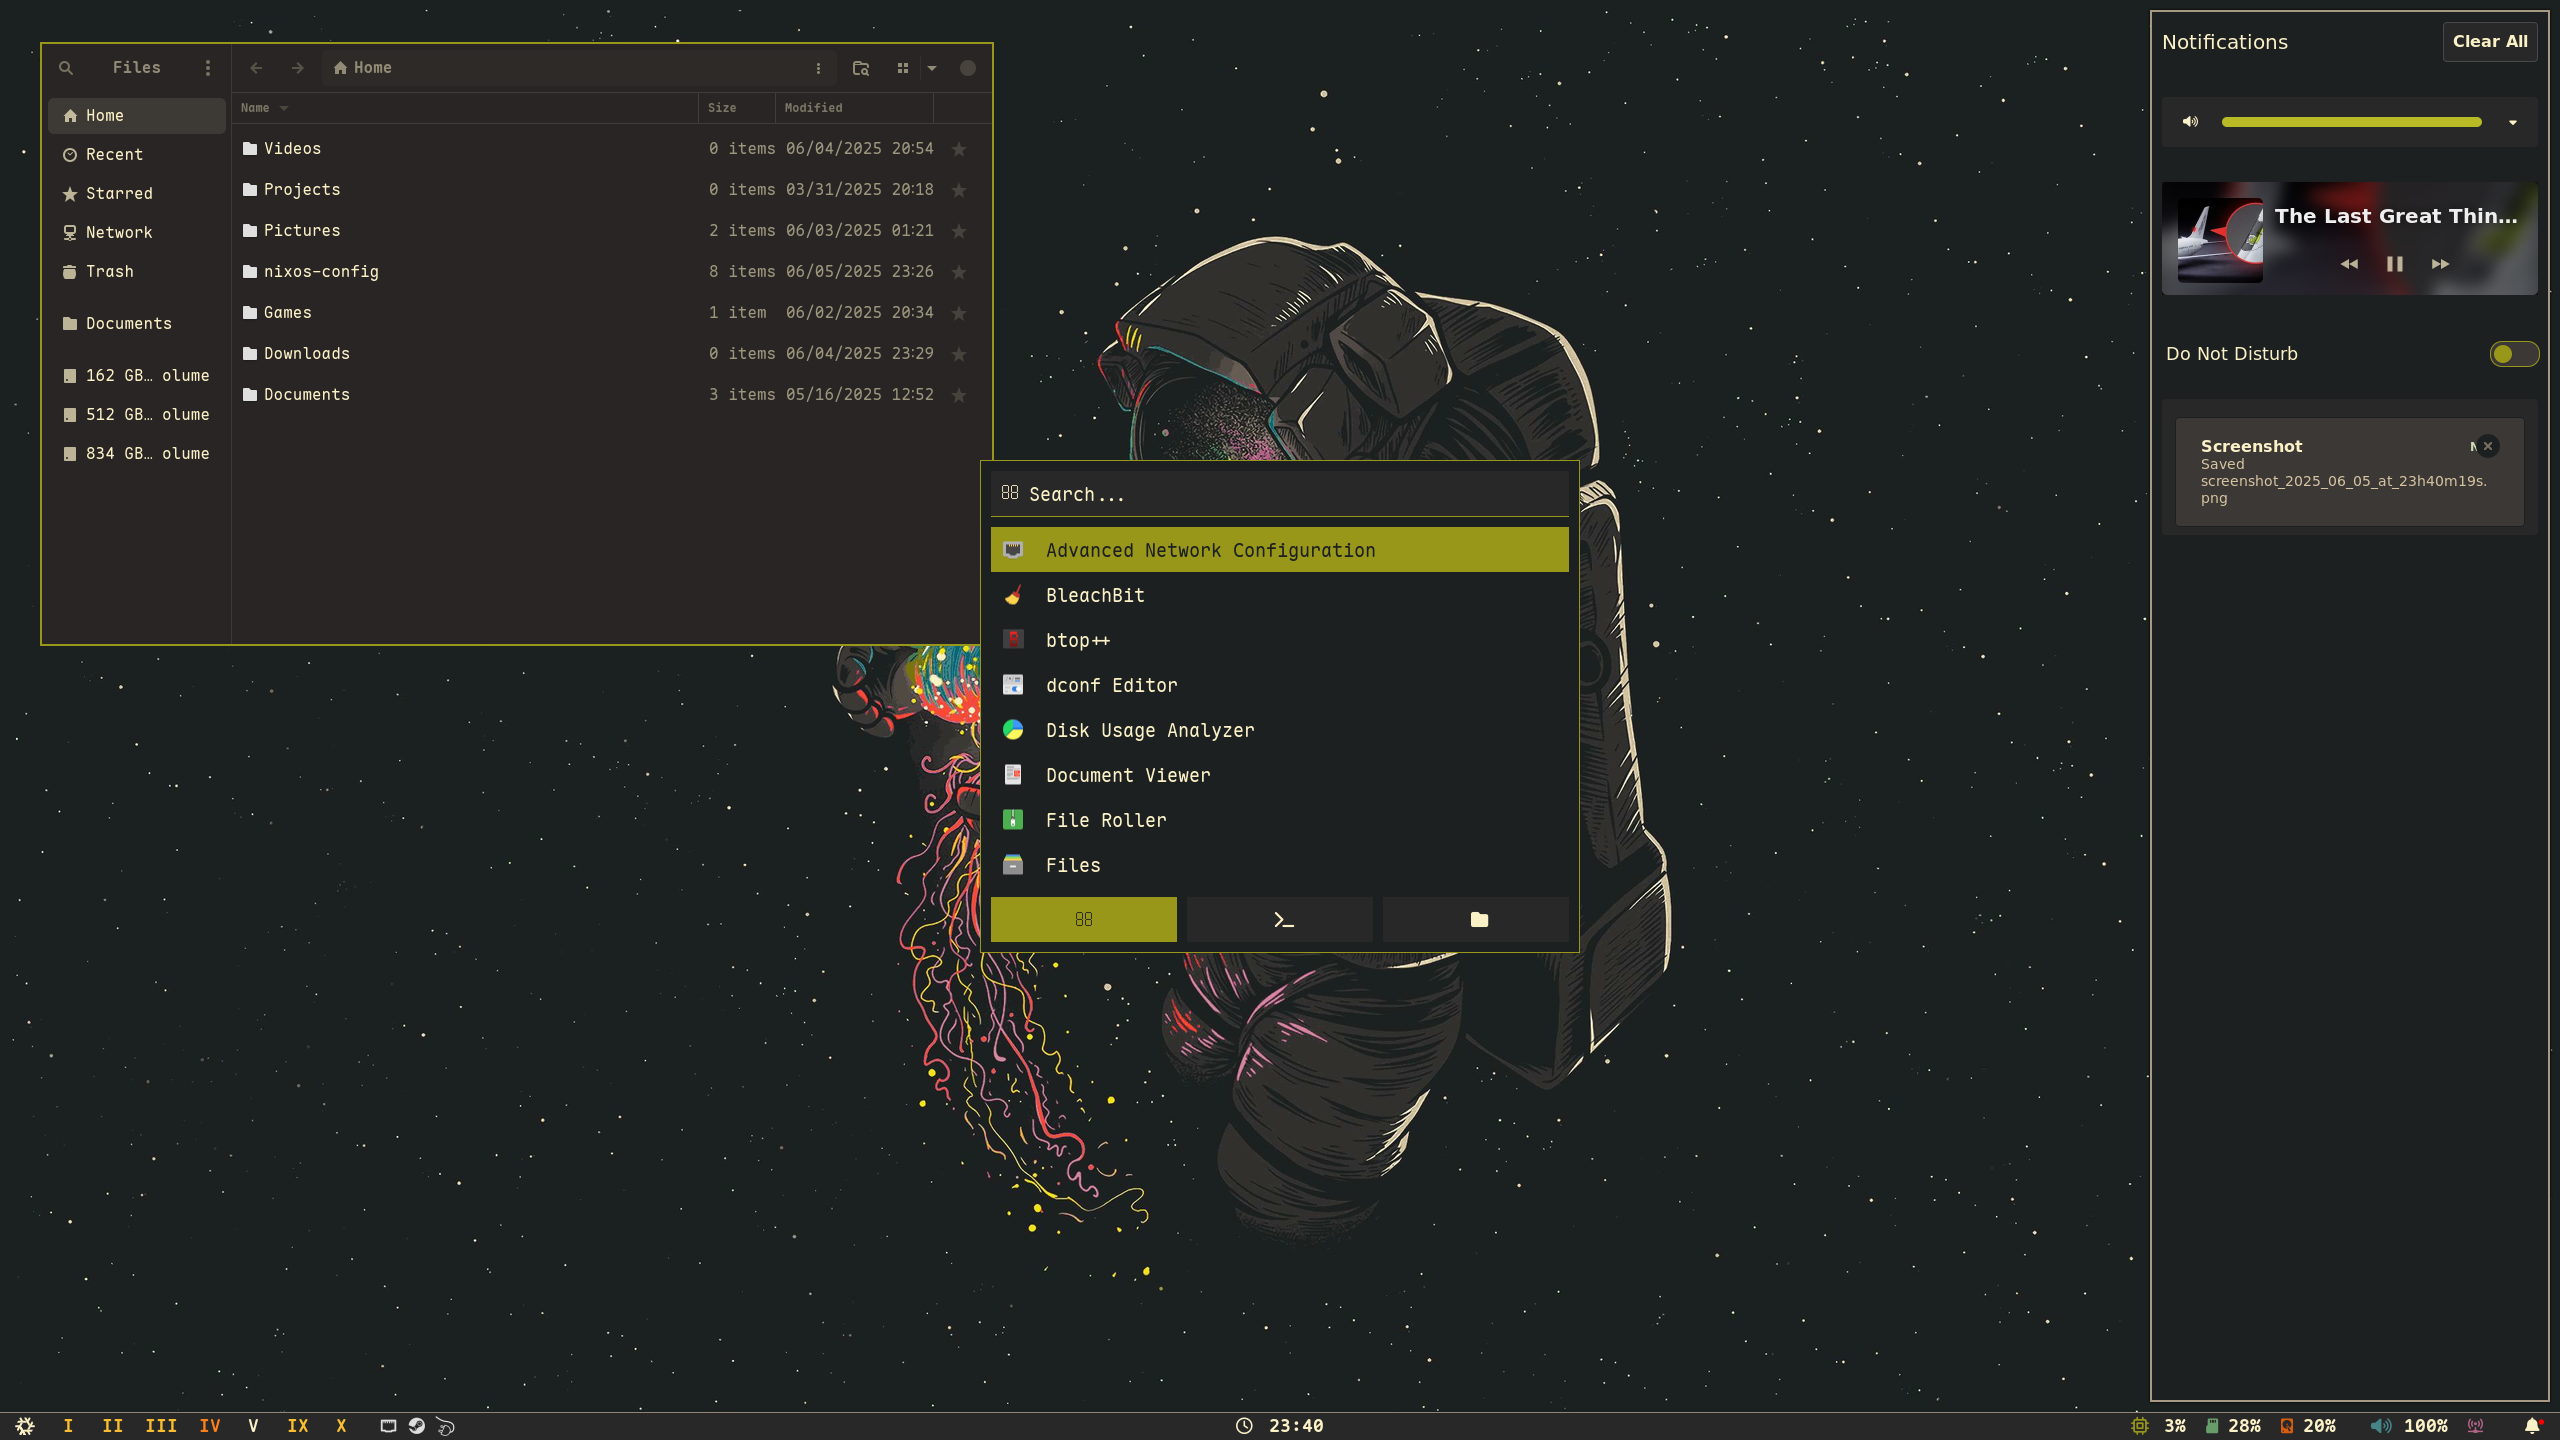
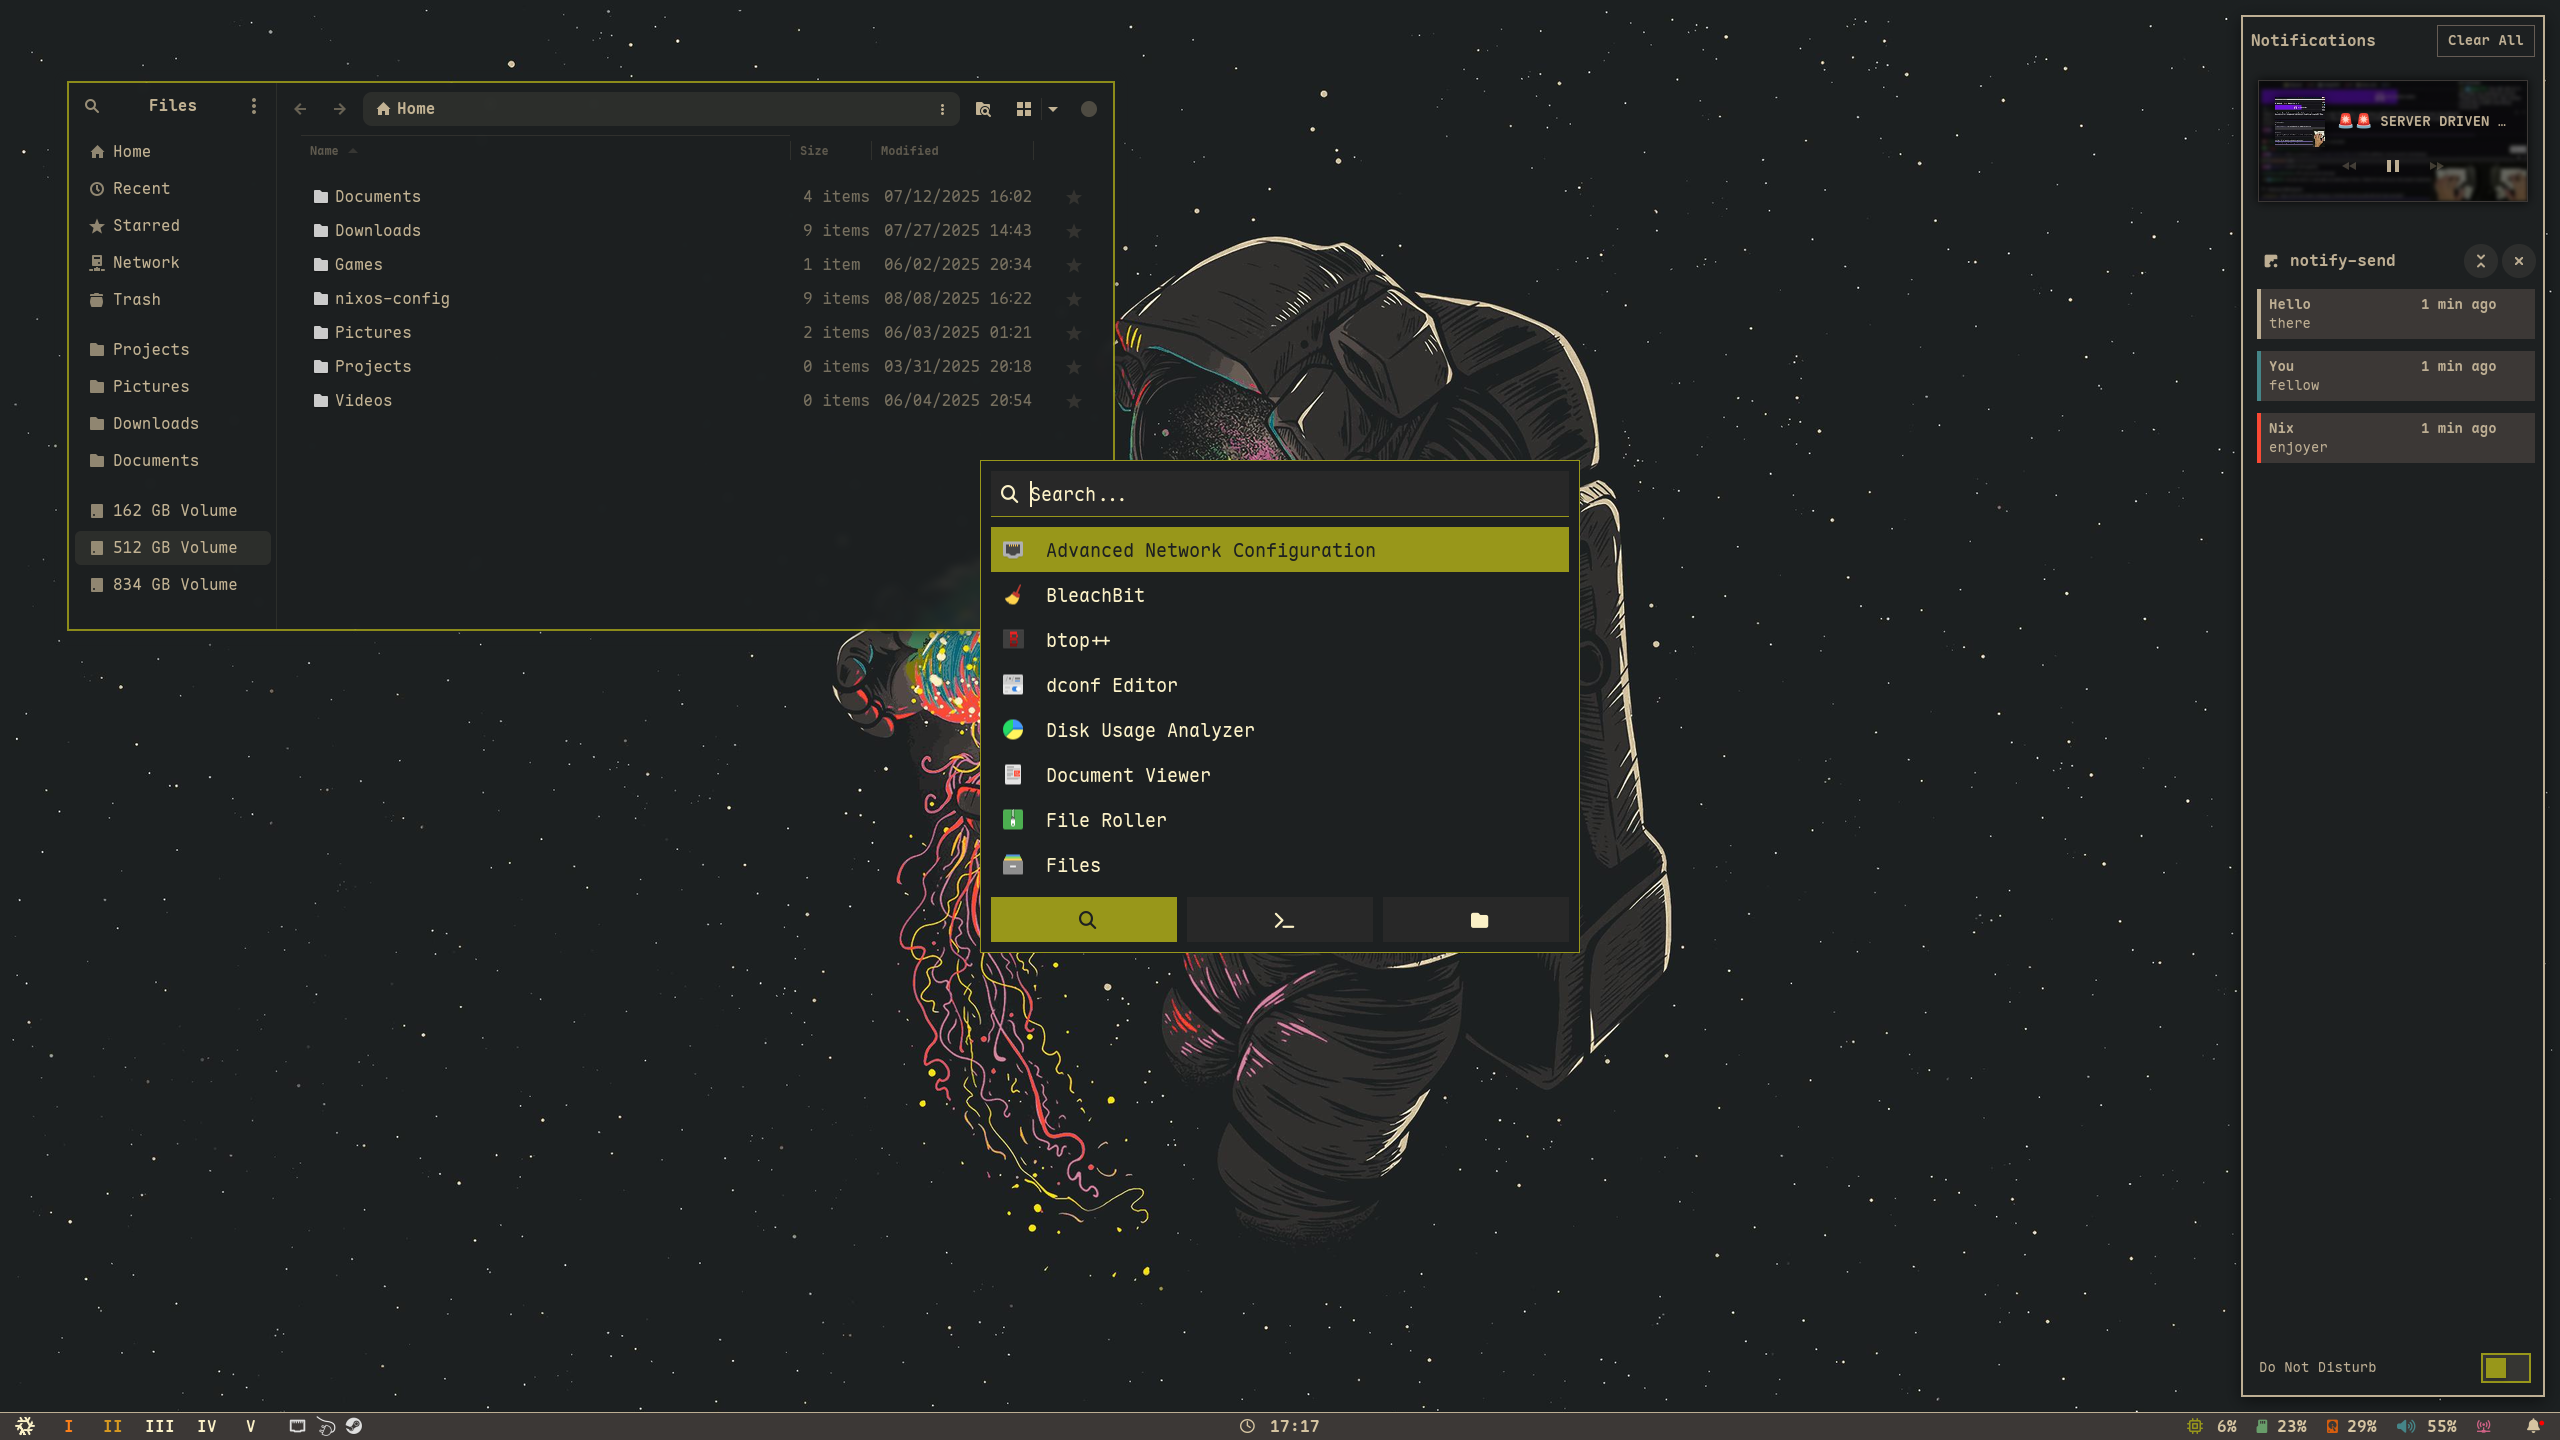
chore: :memo: update readme and screenshot

diff --git a/README.md b/README.md
@@ -31,7 +31,7 @@
    <img src="./.github/assets/screenshots/1.png" style="margin-bottom: 10px;"/> <br>
    <img src="./.github/assets/screenshots/2.png" style="margin-bottom: 10px;"/> <br>
    <img src="./.github/assets/screenshots/3.png" style="margin-bottom: 10px;"/> <br>
-   Screenshots last updated <b>2025-06-05</b>
+   Screenshots last updated <b>2025-08-08</b>
 </p>
 
 <details>
